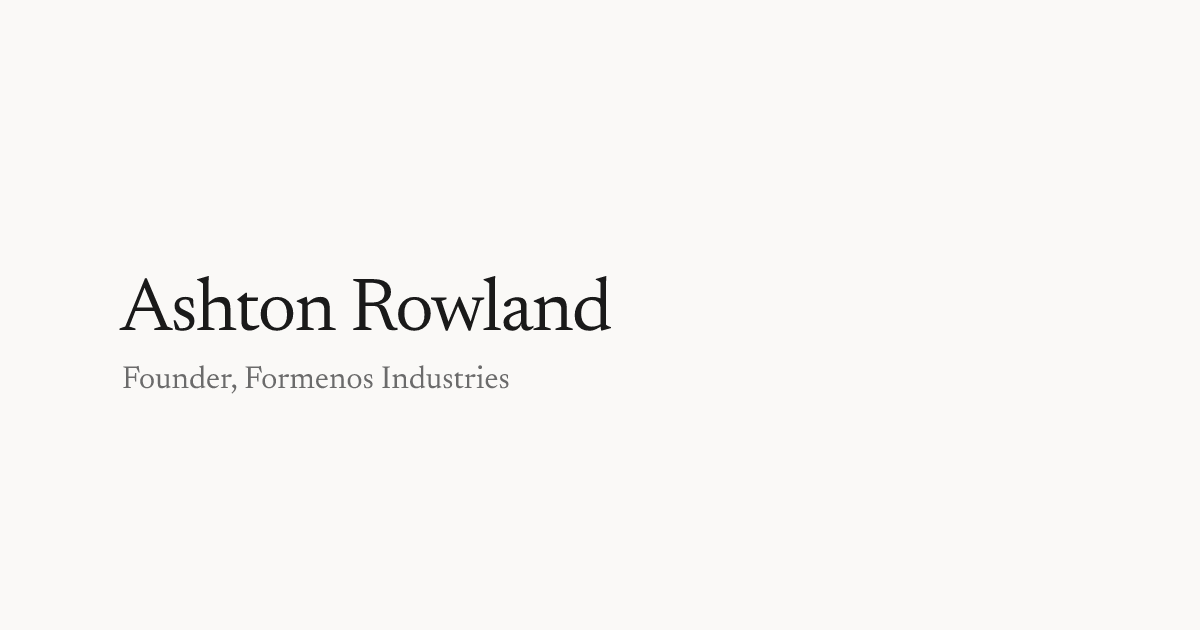
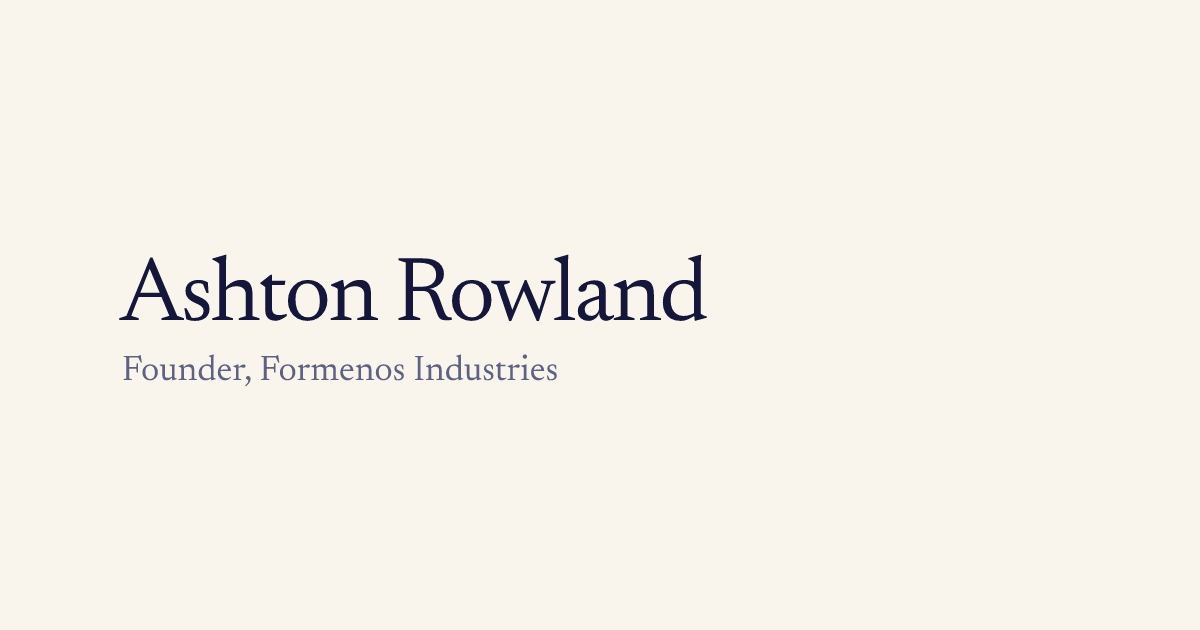
Stripe Press palette and display typography
Warm cream + deep midnight blue replaces the colorless gray. Hero scales to display Newsreader at opsz 36, role line is italic Newsreader instead of Inter sans, body uses opsz 14. More vertical breathing room above the hero.

Changed region(s): [[0.0925, 0.3921, 0.5858, 0.5429], [0.0925, 0.573, 0.4625, 0.6333]]

diff --git a/src/styles/global.css b/src/styles/global.css
@@ -3,11 +3,11 @@
 @import '@fontsource-variable/inter/index.css';
 
 :root {
-  --bg: #faf9f7;
-  --text: #1a1a1a;
-  --text-dim: #6b6b6b;
-  --text-faint: #a8a5a0;
-  --rule: #e8e5e0;
+  --bg: #faf5ec;
+  --text: #14163a;
+  --text-dim: #5d6182;
+  --text-faint: #aaa8a0;
+  --rule: #e8dfcd;
 
   --serif: 'Newsreader Variable', Newsreader, ui-serif, Georgia, 'Times New Roman', serif;
   --sans: 'Inter Variable', Inter, ui-sans-serif, system-ui, -apple-system, sans-serif;
@@ -28,17 +28,16 @@ html {
   color: var(--text);
   font-family: var(--serif);
   font-size: 19px;
-  line-height: 1.65;
+  line-height: 1.7;
+  font-variation-settings: 'opsz' 14;
   -webkit-font-smoothing: antialiased;
   -moz-osx-font-smoothing: grayscale;
   text-rendering: optimizeLegibility;
 }
 
-body {
-  min-height: 100vh;
-}
+body { min-height: 100vh; }
 
-::selection { background: #1a1a1a; color: var(--bg); }
+::selection { background: var(--text); color: var(--bg); }
 
 a {
   color: inherit;
@@ -49,62 +48,57 @@ a {
   transition: text-decoration-color var(--d-fast) var(--ease);
 }
 
-a:hover {
-  text-decoration-color: var(--text);
-}
+a:hover { text-decoration-color: var(--text); }
 
 main {
   max-width: var(--col);
   margin: 0 auto;
-  padding: 6rem 1.5rem 4rem;
+  padding: 9rem 1.5rem 4rem;
 }
 
 @media (max-width: 640px) {
-  main { padding-top: 3.5rem; }
+  main { padding-top: 5rem; }
   html { font-size: 18px; }
 }
 
-h1, h2, h3 {
+h1 {
   font-family: var(--serif);
   font-weight: 500;
-  letter-spacing: -0.015em;
-  line-height: 1.15;
-}
-
-h1 {
-  font-size: 1.75rem;
+  font-size: clamp(2.75rem, 6vw, 4rem);
   font-variation-settings: 'opsz' 36;
-  margin-bottom: 0.25rem;
+  letter-spacing: -0.025em;
+  line-height: 1.05;
+  margin-bottom: 0.5rem;
 }
 
 h2 {
-  font-size: 0.78rem;
   font-family: var(--sans);
   font-weight: 500;
-  letter-spacing: 0.08em;
+  font-size: 0.72rem;
+  letter-spacing: 0.14em;
   text-transform: uppercase;
   color: var(--text-dim);
-  margin-bottom: 1.25rem;
+  margin-bottom: 1.5rem;
 }
 
 p { margin-bottom: 1.25rem; }
 p:last-child { margin-bottom: 0; }
 
 .role {
-  font-family: var(--sans);
-  font-size: 0.82rem;
+  font-family: var(--serif);
+  font-style: italic;
+  font-size: 1.125rem;
   color: var(--text-dim);
-  letter-spacing: 0.005em;
+  font-variation-settings: 'opsz' 18;
+  margin-bottom: 0;
 }
 
-.section {
-  margin-top: 3rem;
-}
+.section { margin-top: 3.5rem; }
 
 footer {
   max-width: var(--col);
   margin: 0 auto;
-  padding: 3rem 1.5rem 3rem;
+  padding: 4rem 1.5rem 3rem;
   font-family: var(--sans);
   font-size: 0.78rem;
   color: var(--text-dim);
@@ -114,7 +108,7 @@ footer {
 }
 
 @keyframes rise {
-  from { opacity: 0; transform: translateY(8px); }
+  from { opacity: 0; transform: translateY(10px); }
   to   { opacity: 1; transform: none; }
 }
 
@@ -124,11 +118,11 @@ footer {
 }
 
 .rise-1 { animation-delay: 0ms; }
-.rise-2 { animation-delay: 80ms; }
-.rise-3 { animation-delay: 200ms; }
-.rise-4 { animation-delay: 360ms; }
-.rise-5 { animation-delay: 540ms; }
-.rise-6 { animation-delay: 720ms; }
+.rise-2 { animation-delay: 120ms; }
+.rise-3 { animation-delay: 280ms; }
+.rise-4 { animation-delay: 460ms; }
+.rise-5 { animation-delay: 660ms; }
+.rise-6 { animation-delay: 880ms; }
 
 @media (prefers-reduced-motion: reduce) {
   .rise { opacity: 1; animation: none; }
